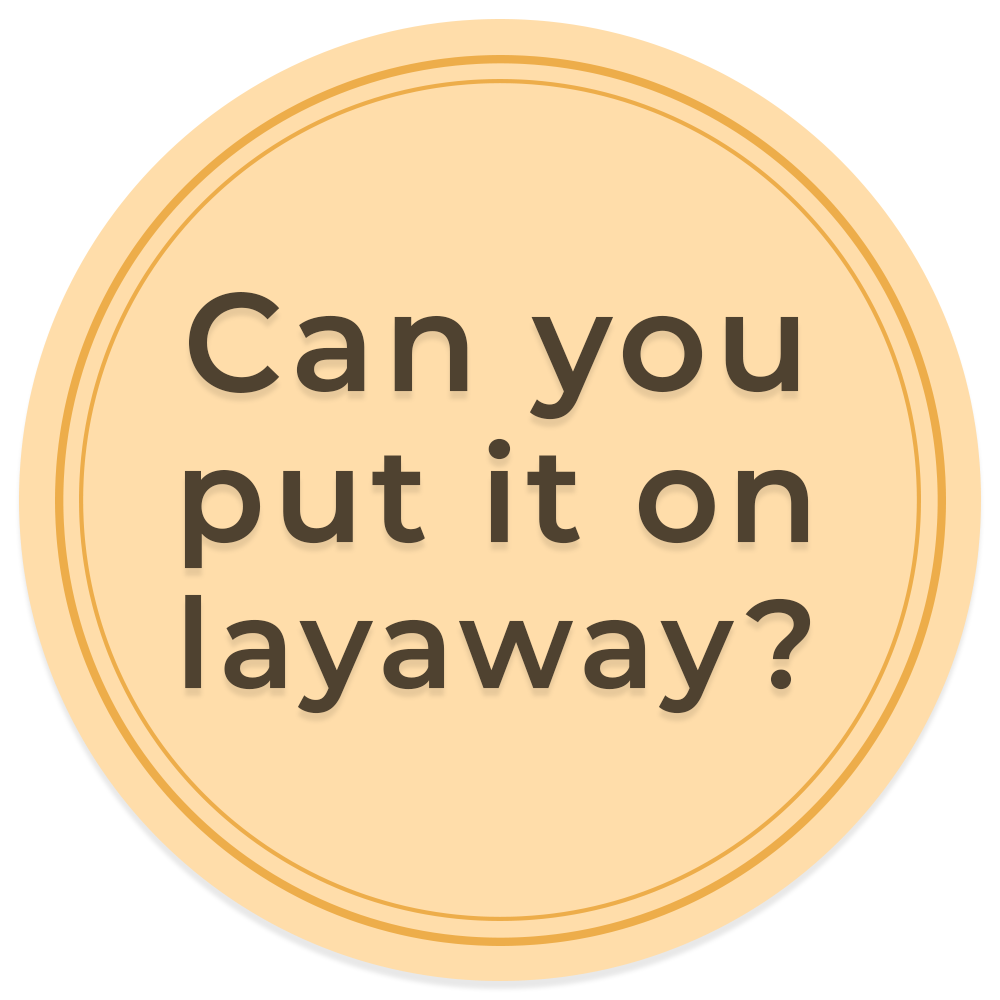
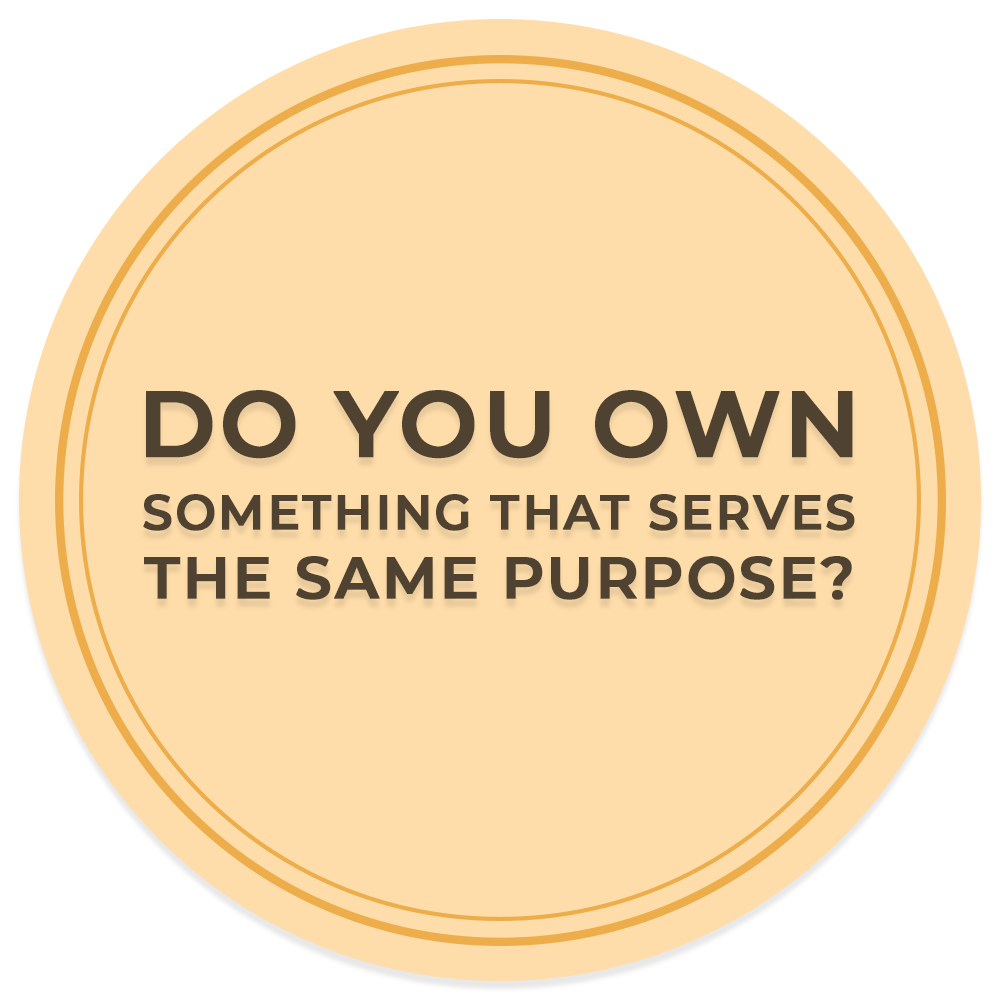
completed the tree

Changed region(s): [[0.124, 0.279, 0.868, 0.713]]

diff --git a/assets/js/main.js b/assets/js/main.js
@@ -1,0 +1,138 @@
+var image =  document.getElementById("image");
+var btn1 =  document.getElementById("btn1");
+var btn0 =  document.getElementById("btn0");
+
+function dangerStyle() {
+	document.body.style.backgroundColor = "#C53131";
+	document.getElementById("major").style.color = "#EDAEAE";
+	document.getElementById("break").style.backgroundColor = "#EDAEAE";
+	document.getElementById("footer").style.borderColor = "#EDAEAE";
+	document.getElementById("footer-wrapper").style.color = "#EDAEAE";
+	a_tags = document.getElementsByTagName("a");
+	for (i = 0; i < a_tags.length; i++) {a_tags[i].style.color = "#EDAEAE";}
+	css = 'a:hover {color: #600B00 !important;}';
+	style = document.createElement('style');
+	style.appendChild(document.createTextNode(css));
+	document.getElementsByTagName('head')[0].appendChild(style);
+}
+
+function nextQuestion(bool, qus) {
+	console.log(bool, qus)
+	if (qus == 1) {
+		if (bool == 1) {
+			image.src = "assets/img/2.png";
+			btn1.setAttribute("onClick", "nextQuestion(1,2);");
+			btn0.setAttribute("onClick", "nextQuestion(0,2);");
+		} else if (bool == 0) {
+			image.src = "assets/img/3.png";
+			btn1.setAttribute("onClick", "nextQuestion(1,3);");
+			btn0.setAttribute("onClick", "nextQuestion(0,3);");
+		}
+	} else if (qus == 2) {
+		if (bool == 1) {
+			image.src = "assets/img/4.png";
+			btn1.setAttribute("onClick", "nextQuestion(1,4);");
+			btn0.setAttribute("onClick", "nextQuestion(0,4);");
+		} else if (bool == 0) {
+			image.src = "assets/img/F1.png";
+			btn1.style.visibility = "hidden";
+			btn0.style.visibility = "hidden";
+			dangerStyle()
+			document.getElementById("final_text").innerHTML='<span style="color: #EDAEAE;">You don’t truly need this item.</span>';
+		}
+	} else if (qus == 3) {
+		if (bool == 1) {
+			image.src = "assets/img/F2.png";
+			btn1.style.visibility = "hidden";
+			btn0.style.visibility = "hidden";
+			dangerStyle()
+		} else if (bool == 0) {
+			image.src = "assets/img/5.png";
+			btn1.setAttribute("onClick", "nextQuestion(1,5);");
+			btn0.setAttribute("onClick", "nextQuestion(0,5);");
+		}
+	} else if (qus == 4) {
+		if (bool == 1) {
+			image.src = "assets/img/6.png";
+			btn1.setAttribute("onClick", "nextQuestion(1,6);");
+			btn0.setAttribute("onClick", "nextQuestion(0,6);");
+		} else if (bool == 0) {
+			image.src = "assets/img/3.png";
+			btn1.setAttribute("onClick", "nextQuestion(1,3);");
+			btn0.setAttribute("onClick", "nextQuestion(0,3);");
+		}
+	} else if (qus == 5) {
+		if (bool == 1) {
+			image.src = "assets/img/F3.png";
+			btn1.style.visibility = "hidden";
+			btn0.style.visibility = "hidden";
+			dangerStyle()
+		} else if (bool == 0) {
+			image.src = "assets/img/F5.png";
+			btn1.style.visibility = "hidden";
+			btn0.style.visibility = "hidden";
+			dangerStyle()
+			document.getElementById("final_text").innerHTML='<span style="color: #EDAEAE;">So you know you are getting a good deal.</span>';
+		}
+	} else if (qus == 6) {
+		if (bool == 1) {
+			image.src = "assets/img/F1.png";
+			btn1.style.visibility = "hidden";
+			btn0.style.visibility = "hidden";
+			dangerStyle()
+			document.getElementById("final_text").innerHTML='<span style="color: #EDAEAE;">You don’t truly need this item.</span>';
+		} else if (bool == 0) {
+			image.src = "assets/img/9.png";
+			btn1.setAttribute("onClick", "nextQuestion(1,9);");
+			btn0.setAttribute("onClick", "nextQuestion(0,9);");
+		}
+	} else if (qus == 7) {
+		if (bool == 1) {
+			image.src = "assets/img/8.png";
+			btn1.setAttribute("onClick", "nextQuestion(1,8);");
+			btn0.setAttribute("onClick", "nextQuestion(0,8);");
+		} else if (bool == 0) {
+			image.src = "assets/img/F5.png";
+			btn1.style.visibility = "hidden";
+			btn0.style.visibility = "hidden";
+			document.getElementById("final_text").innerHTML='<span style="color: #EDAEAE;">So you know you are getting a good deal.</span>';
+			dangerStyle()
+		}
+	} else if (qus == 8) {
+		if (bool == 1) {
+			image.src = "assets/img/F6.png";
+			btn1.style.visibility = "hidden";
+			btn0.style.visibility = "hidden";
+			document.body.style.backgroundColor = "#79BE87";
+			document.getElementById("major").style.color = "#B5FFC2";
+			document.getElementById("break").style.backgroundColor = "#B5FFC2";
+			document.getElementById("footer").style.borderColor = "#B5FFC2";
+			document.getElementById("footer-wrapper").style.color = "#B5FFC2";
+			a_tags = document.getElementsByTagName("a");
+			for (i = 0; i < a_tags.length; i++) {a_tags[i].style.color = "#B5FFC2";}
+			css = 'a:hover {color: #2B4430 !important;}';
+			style = document.createElement('style');
+			style.appendChild(document.createTextNode(css));
+			document.getElementsByTagName('head')[0].appendChild(style);
+			document.getElementById("final_text").innerHTML='<span style="color: #B5FFC2;">Enjoy your purchase, smart spender!</span>';
+		} else if (bool == 0) {
+			image.src = "assets/img/F1.png";
+			btn1.style.visibility = "hidden";
+			btn0.style.visibility = "hidden";
+			dangerStyle()
+			document.getElementById("final_text").innerHTML='<span style="color: #EDAEAE;">Congrats! You prevented an impulse purchase and saved money!</span>';
+		}
+	} else if (qus == 9) {
+		if (bool == 1) {
+			image.src = "assets/img/F4.png";
+			btn1.style.visibility = "hidden";
+			btn0.style.visibility = "hidden";
+			document.getElementById("final_text").innerHTML='<span style="color: #EDAEAE;">If it’s something you really want.</span>';
+			dangerStyle()
+		} else if (bool == 0) {
+			image.src = "assets/img/7.png";
+			btn1.setAttribute("onClick", "nextQuestion(1,7);");
+			btn0.setAttribute("onClick", "nextQuestion(0,7);");
+		}
+	}
+}

diff --git a/index.html b/index.html
@@ -28,24 +28,25 @@
 	<link rel="stylesheet" type="text/css" href="assets/css/bootstrap.min.css"/>
 	<link rel="stylesheet" type="text/css" href="assets/css/font-awesome.min.css"/>
 
-  <body>
+  <body style="background-color: #EDAD4A !important;">
 
 	<div class="container">
 
 	  	<div class="heading">
 	  		<div class="col-md-12 col-xs-12">
-	  			<a href="https://sidaartha.github.io/ShouldIBuyThis" class="major">Should I Buy This?</a>
+	  			<a id="major" href="https://sidaartha.github.io/ShouldIBuyThis" class="major">Should I Buy This?</a>
 	  		</div>
 	  	</div>
 	  	<div class="col-md-12 col-xs-12">
-	  		<div class="break"></div>
+	  		<div id="break" class="break"></div>
 
-	  		<div class="question">
-	  			<img src="assets/img/1.png">
+	  		<div id="question" class="question">
+	  			<img id="image" src="assets/img/1.png">
 	  		</div>
-	  		<div class="btn_group text-center">
-  				<button type="button" class="btn btn-success btn_style">Yes</button>
-				<button type="button" class="btn btn-danger btn_style">No</button>
+	  		<div id="final_text"></div>
+	  		<div id="btns" class="btn_group text-center">
+  				<button id="btn1" type="button" class="btn btn-success btn_style" onclick = "nextQuestion(1,1)">Yes</button>
+				<button id="btn0" type="button" class="btn btn-danger btn_style" onclick = "nextQuestion(0,1)">No</button>
 			</div>
 
 	  	</div>
@@ -53,8 +54,8 @@
 	</div>
 
 
-	<div class="footer" style="margin-bottom:0px">
-		<div class="footer-wrapper">
+	<div id="footer" class="footer" style="margin-bottom:0px">
+		<div id="footer-wrapper" class="footer-wrapper">
 			<span>Made with <i class="fa fa-heart heart" aria-hidden="true"></i> by Sidaartha.</span>
 			<div class="social-icons">
 			  <a href="https://github.com/sidaartha" target="_blank"><i class="fa fa-github zoom"></i></a>

diff --git a/assets/css/main.css b/assets/css/main.css
@@ -1,11 +1,12 @@
 @import url('https://fonts.googleapis.com/css?family=Karma:500,500i,700');
 @import url('https://fonts.googleapis.com/css?family=Roboto:400,500,700,900');
 
-html,
 body {
-	background-color: #EDAD4A !important;
 	font-family: 'Roboto', 'Karma', sans-serif, arial, serif !important;
 	color: #FFE9C8 !important;
+}
+a {
+
 }
 a:hover {
 	text-decoration: none !important;
@@ -26,12 +27,6 @@ img {
 	font-size: 1.8em !important;
 	font-weight: 500 !important;
 }
-.minor {
-	color: #FFE9C8;
-	text-align: center;
-	font-size: 1em !important;
-	font-weight: 300 !important;
-}
 .break { 
     background: #FFDDAA;
     margin: 0 auto;
@@ -48,21 +43,21 @@ img {
 	border-top: 1px solid rgba(255, 252, 249, 0.5);
 }
 .footer-wrapper {
-  margin-top: 20px;  
-  margin-bottom: -10px;
-  text-align: center;
-  font-size: 14px;
-  color: #FFE9C8;
+	margin-top: 20px;  
+	margin-bottom: -10px;
+	text-align: center;
+	font-size: 14px;
+	color: #FFE9C8;
 }
 .footer-wrapper a {
-  color:#FFE9C8;
-  font-size: 25px;
+	color:#FFE9C8;
+ 	font-size: 25px;
 }
 .social-icons {
-  margin: 0.5em 0 2em;
+	margin: 0.5em 0 2em;
 }
 .social-icons a {
-  padding: 4px 8px;
+	padding: 4px 8px;
 }
 @keyframes heartbeat {
 	0% {
@@ -119,6 +114,9 @@ img {
 }
 .btn_style:nth-child(2) {
 	border-radius: 0px 10px 10px 0px;
+}
+#final_text {
+	text-align: center;
 }
 
 @media screen and (min-width: 300px) and (max-width: 399px) {
